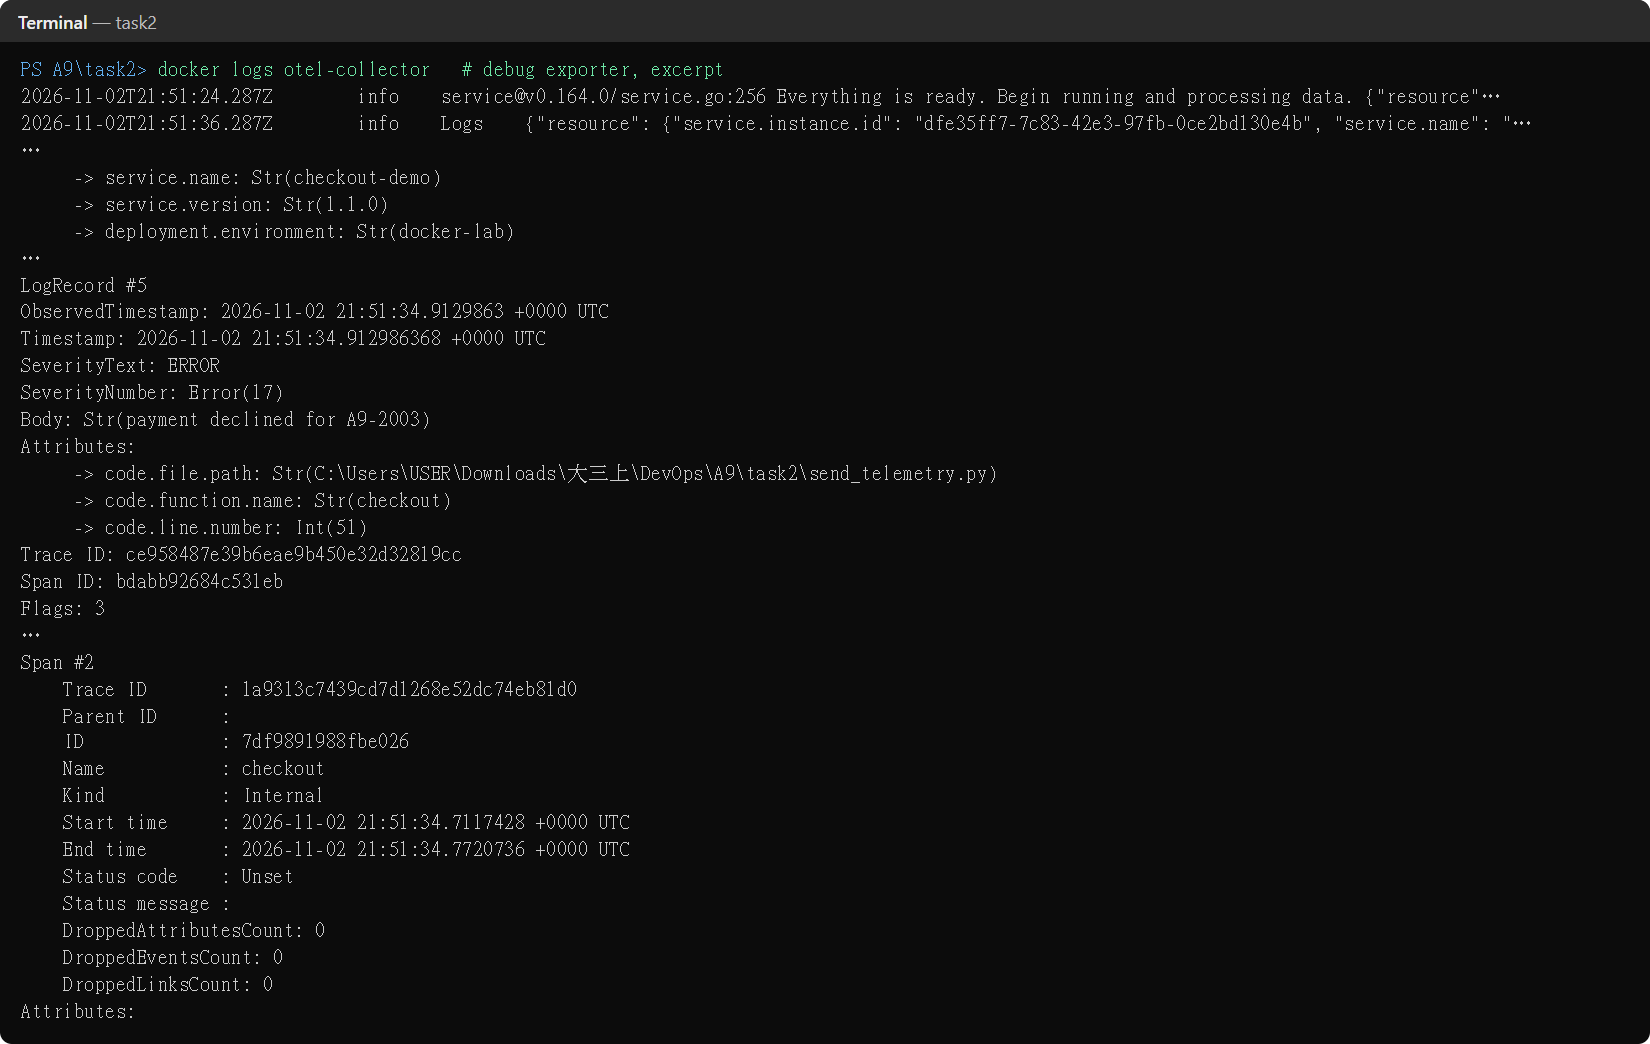
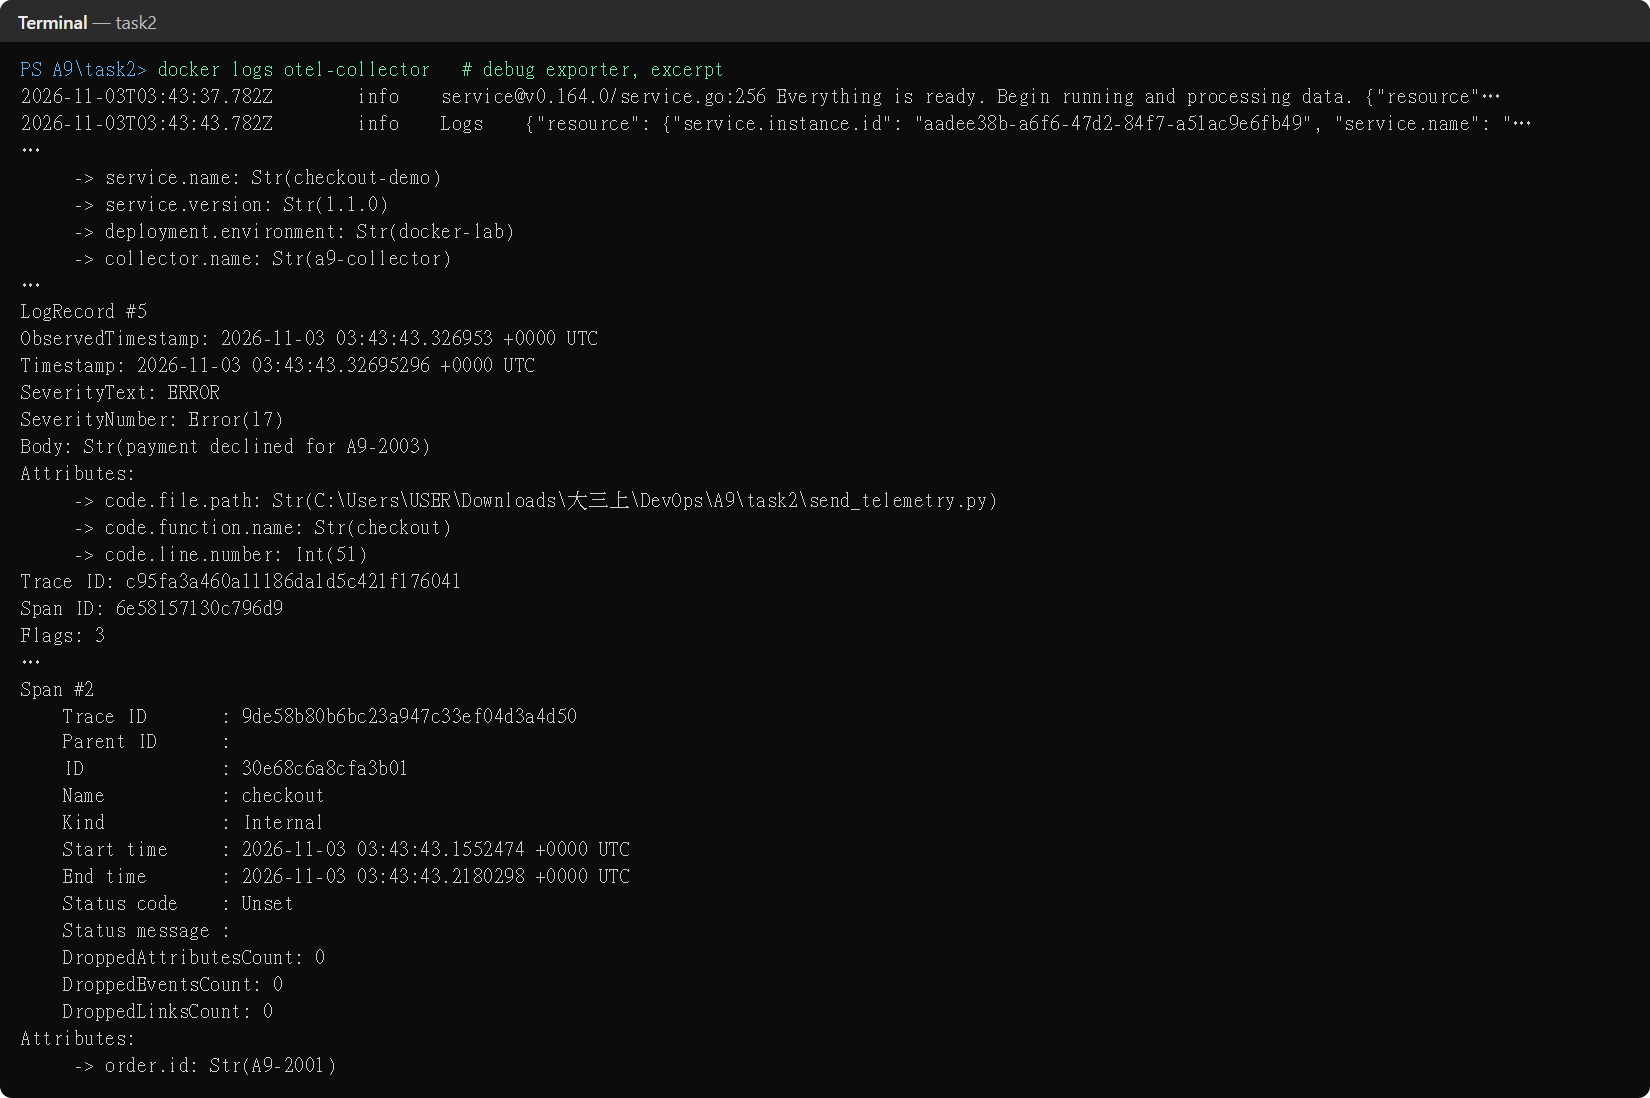
Run Task 2 on the core collector image
The assignment asks for otel/opentelemetry-collector. The core 0.164.0
image already has the file exporter, memory_limiter, resource and
health_check, so the config is unchanged. Re-ran Task 2, refreshed the
saved output and screenshots, and noted the resource processor's
planned removal from core in the lessons learned.

diff --git a/build/render_term.py b/build/render_term.py
@@ -49,6 +49,9 @@ send_email = send_email.split('"exception.stacktrace"')[0] + '"exception.stacktr
 checkout = next(s for s in full if '"name": "checkout"' in s)
 collector = read(T2 / "out_collector.log").splitlines()
 t409, t402 = read(O / "t409.txt"), read(O / "t402.txt")
+# `docker compose up` prints each progress line more than once; keep the first of each run
+up = read(T2 / "out_up.txt").splitlines()
+up_lines = "\n".join(l for i, l in enumerate(up) if i == 0 or l.strip() != up[i - 1].strip())
 errors_tail = "\n".join(read(O / "out_errors.txt").splitlines()[-6:])
 
 SCREENS = {
@@ -59,17 +62,16 @@ SCREENS = {
         ("python console_demo.py   # default ConsoleSpanExporter, 2 of 7 spans shown", send_email + "\n" + checkout.split('"resource"')[0] + "…\n}"),
     ],
     "T2-run.png": [
-        ("docker compose up -d", " Network task2_default Created\n Container otel-collector Creating\n Container otel-collector Created\n"
-         " Container otel-collector Starting\n Container otel-collector Started"),
+        ("docker compose up -d", up_lines),
         ("docker compose ps", read(T2 / "out_docker_ps.txt")),
-        ("curl -s localhost:13133", '{"status":"Server available","upSince":"2026-11-02T21:51:24.287160004Z","uptime":"5.713785258s"}'),
+        ("curl -s localhost:13133", read(T2 / "out_health.txt")),
         ("python send_telemetry.py", read(T2 / "out_send.txt")),
-        ("ls -l output/", "-rw-r--r-- 1 USER 197121 6807 Nov  3 05:51 telemetry.jsonl"),
+        ("ls -l output/", read(T2 / "out_ls.txt")),
     ],
     "T2-collector-debug.png": [
         ("docker logs otel-collector   # debug exporter, excerpt",
-         cut("\n".join(collector[10:12]) + "\n…\n" + "\n".join(collector[19:22]) + "\n…\n" + "\n".join(collector[91:104])
-             + "\n…\n" + "\n".join(collector[146:160]), 130)),
+         cut("\n".join(collector[12:14]) + "\n…\n" + "\n".join(collector[21:25]) + "\n…\n" + "\n".join(collector[93:106])
+             + "\n…\n" + "\n".join(collector[148:163]), 130)),
     ],
     "T2-file-export.png": [
         ("python -m json.tool output/telemetry.jsonl   # file exporter, one log record", file_export_excerpt()),

diff --git a/build/report.md b/build/report.md
@@ -2,7 +2,7 @@
 
 **Name:** 陳致安 · **Student ID:** B11309058 · **Course:** DevOps · **Date:** November 3, 2026
 **Code:** <https://github.com/wagyboy/devops-otel-lab>
-**Stack:** Python 3.10 / 3.12 · OpenTelemetry SDK 1.45.2 (instrumentation 0.66b2) · Docker Desktop 29.9.2 · OTel Collector Contrib 0.164.0 · Jaeger 2.22.0 · Prometheus 3.15.1
+**Stack:** Python 3.10 / 3.12 · OpenTelemetry SDK 1.45.2 (instrumentation 0.66b2) · Docker Desktop 29.9.2 · OTel Collector 0.164.0 (core image for Task 2, contrib for Task 3) · Jaeger 2.22.0 · Prometheus 3.15.1
 
 | Level | What I built | Section |
 | --- | --- | --- |
@@ -70,7 +70,7 @@ Swapping the `ConsoleSpanExporter` for an `OTLPSpanExporter` (Task 2) changes th
 
 ## 3. Task 2 (E): Dockerized OpenTelemetry Collector over OTLP
 
-**Install and run.** I installed Docker Desktop (WSL 2 backend) and ran the official image `otel/opentelemetry-collector-contrib:0.164.0` from Docker Hub. The core image already includes the `file` exporter; I used the *contrib* distribution so that one image covers every component in this report, including the `spanmetrics` connector and Prometheus exporter in Section 4. `task2/docker-compose.yml` mounts the config read-only, mounts `./output` for the exported file, and publishes 4317 (OTLP gRPC), 4318 (OTLP HTTP) and 13133 (health check).
+**Install and run.** I installed Docker Desktop (WSL 2 backend) and ran the official core image `otel/opentelemetry-collector:0.164.0` from Docker Hub. It already includes every component this pipeline needs: the `file` exporter, the `memory_limiter` and `resource` processors and the `health_check` extension (`otelcol components` lists them). Only Section 4 switches to the *contrib* image, for the `spanmetrics` connector and the Prometheus exporter. `task2/docker-compose.yml` mounts the config read-only, mounts `./output` for the exported file, and publishes 4317 (OTLP gRPC), 4318 (OTLP HTTP) and 13133 (health check).
 
 ```yaml
 # task2/otel-collector-config.yaml
@@ -251,4 +251,5 @@ The same ID opens the trace in Jaeger (Figures 8 and 15).
 4. **4xx is an error for the client but not for the server.** Following the semantic conventions, a 409 leaves the inventory SERVER span UNSET (the server worked correctly), while the frontend CLIENT span is ERROR (Figure 13). An "error rate" alert must therefore pick the span kind on purpose.
 5. **Percentiles need suitable buckets.** My first p95 query said about 220 ms for free users, but that value was interpolated inside the coarse 100–250 ms bucket. I switched the figure to the average (`sum/count`). In production the buckets should be chosen around the SLO threshold.
 6. **Test data has to be realistic.** The first load run exhausted the stock in a minute, so 145 of 404 requests were 409s. That would have hidden the normal path, so I raised the stock levels.
-7. **Batching needs a clean shutdown.** With `BatchSpanProcessor`, a short script that exits without `provider.shutdown()` loses its last spans. The SDK does not warn about it.
+7. **The core distribution is shrinking.** On start-up the core 0.164.0 Collector warns that the `resource` processor will be removed from the core image in v0.167.0, with the `transform` processor as the replacement. Pinning the image tag kept this lab working; an upgrade would need the config migrated first, so the warning belongs in the upgrade checklist.
+8. **Batching needs a clean shutdown.** With `BatchSpanProcessor`, a short script that exits without `provider.shutdown()` loses its last spans. The SDK does not warn about it.

diff --git a/README.md b/README.md
@@ -5,7 +5,7 @@ Owner: 陳致安 (B11309058) · Course: DevOps
 | Folder | Level | What it shows |
 | --- | --- | --- |
 | `task1/` | A | OpenTelemetry SDK with `ConsoleSpanExporter`: a 7-span trace with nesting, attributes, events and an error |
-| `task2/` | E | Dockerized Collector (`otel/opentelemetry-collector-contrib:0.164.0`): OTLP on 4317 → memory_limiter, resource, batch → console + local file, for traces and logs |
+| `task2/` | E | Dockerized Collector (core image `otel/opentelemetry-collector:0.164.0`): OTLP on 4317 → memory_limiter, resource, batch → console + local file, for traces and logs |
 | `o-level/` | O | Two Flask services with context propagation and baggage; a Collector with three pipelines + spanmetrics connector → Jaeger, Prometheus, log file; log ↔ trace correlation |
 | `screenshots/` | | Every figure used in the report |
 | `build/` | | Report source (`report.md`) and the scripts that build the PDF and capture screenshots |
